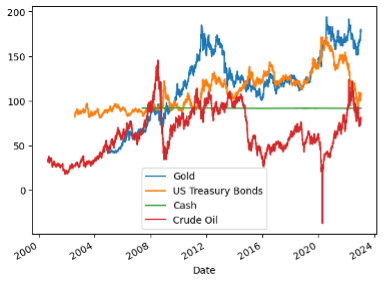
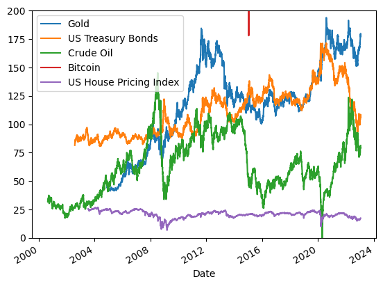
Updating README file for Q6 with Graph

diff --git a/README.md b/README.md
@@ -109,11 +109,12 @@ Does Gold really act as a hedge during bear markets or are there better alternat
 
 ### Question 6:
 What impact do hedging strategies have on the liquidity of markets during a bear market?
-Hedging strategies in a  bear market should provide the portfolio with more liquidity. The idea being that in a bear market as confidence in the market is decreasing and as we see a decline in prices it becomes increasingly more difficult to take your securities to market and sell them. So by hedging what we are doing is diversifying the risk of asset allocation across a number of portfolios that remain independent of one another across different asset classes so that during market downturn your portfolio is not dependant on only one of the investment vehicles declining. So in our portfolio for example we are looking at BTC(crypto), treasury bonds (fixed-income), gold/oil(commodity market), and housing price index(real estate market). 
+Hedging strategies in a  bear market should provide the portfolio with more liquidity. The idea being that in a bear market as confidence in the market is decreasing and as we see a decline in prices it becomes increasingly more difficult to take your securities to market and sell them. So by hedging we are diversifying the risk of asset allocation across a number of portfolios.  These asset allocations remain independent of one another across different classes so that during the market downturn your portfolio is not dependant on only one of the investment type declining. In our portfolio, we are looking at BTC(crypto), treasury bonds (fixed-income), gold/oil(commodity market), and housing price index(real estate market).  Due to the price of BTC, you cannot see it in the graph except around 2015-2016 when it began to take hold in the market.   
 
 ![Gold, US T-Bill, Cash and Crude Oil Prices](Images/Q6_Chart.png)
+![Bitcoin Prices](Images/Q6_Bitcoin.png)
 
-So as an example from the chart showing gold vs us t - bills vs cash vs crude oil from 2000-2024 we can see that in 2008 as oil and gold were taking a big dip, the t-bill market was fairly consistent and although bond yield had slightly increased resulting in a drop in bond prices, the dip in bond prices would not have been as significant as the dip in the oil price. As a result at that time if you were to be in need of liquidity by taking both your bonds and oil to market - incase no one was buying your oil you could still sell some of your bonds or gold for that matter as a way to provide yourself some liquidity relief while maintaining your oil position giving it time to recover and not having to dump it off at an extremely low price. We see similar behavior with crude oil in 2020 and even more drastic of a dip in oil vs the increase in bond yield and gold and as we can see hedging your oil in 2020 was a very smart move as the oil market had dipped so low and bounced back to such a high that had you been in need of cash when oil dipped and you had to liquidate your investments at such an all time low you would have missed the opportunity for oil to skyrocket in its recovery period as we can see in 2021-2022 onward. 
+When we look at gold vs US T-bills vs cash vs crude oil from 2000-2024 we can see that in 2008 as oil and gold were taking a big dip, the t-bill market was fairly consistent and although bond yield had slightly increased resulting in a drop in bond prices, the dip in bond prices would not have been as significant as the dip in the oil price. As a result at that time if you were to be in need of liquidity by taking both your bonds and oil to market - incase no one was buying your oil you could still sell some of your bonds or gold for that matter as a way to provide yourself some liquidity relief while maintaining your oil position giving it time to recover and not having to dump it off at an extremely low price. We see similar behavior with crude oil in 2020 and even more drastic of a dip in oil vs the increase in bond yield and gold and as we can see hedging your oil in 2020 was a very smart move as the oil market had dipped so low and bounced back to such a high that had you been in need of cash when oil dipped and you had to liquidate your investments at such an all time low you would have missed the opportunity for oil to skyrocket in its recovery period as we can see in 2021-2022 onward. 
 
 
 
